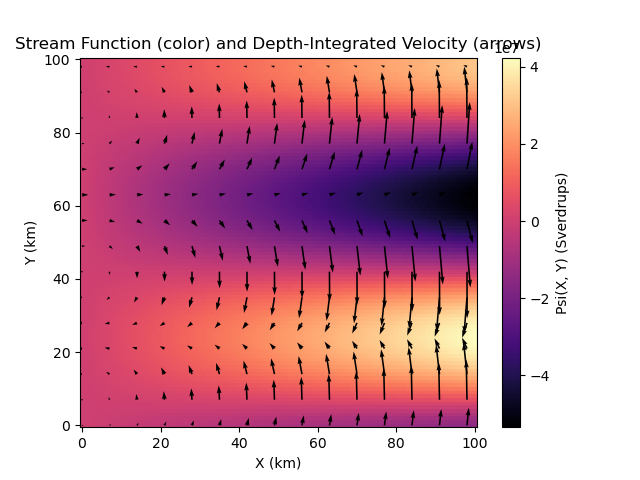
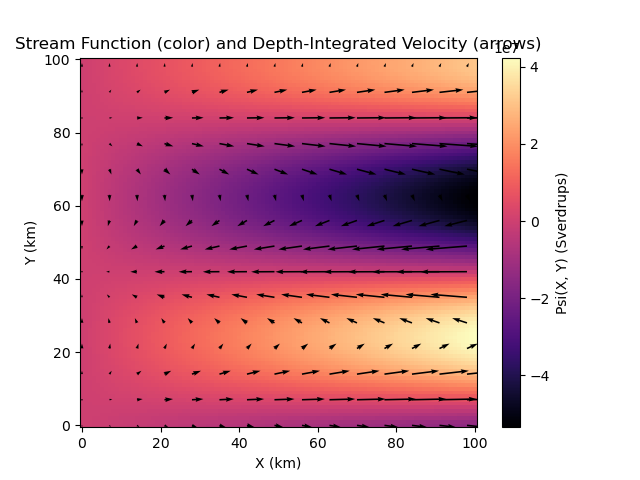
small mods for sverdrup

diff --git a/project5.py b/project5.py
@@ -19,22 +19,17 @@ def tau_x_function(y_range):
 windStress, width = tau_x_function(y_range)
 
 def Mek():
-    windStress_vecs = np.column_stack((windStress, np.zeros_like(windStress), np.zeros_like(windStress)))
-    mass = np.cross(windStress_vecs, z_hat)/f
+    #windStress_vecs = np.column_stack((windStress, np.zeros_like(windStress), np.zeros_like(windStress)))
+    #mass = np.cross(windStress_vecs, z_hat)/f
 
-<<<<<<< Updated upstream
-    print(mass[:, 1])
+    #print(mass[:, 1])
+    mass = -1*windStress/f
     return mass
-massTransport = Mek() #[:, 1] means only consider y direction
-=======
-    #print(mass)
-    return mass
-massTransport = Mek() #[:, 1] means to take all rows(all width values), and to only use first column (massTransport_y)
->>>>>>> Stashed changes
-massTransport_y = massTransport[:, 1]
+massTransport_y = Mek() #[:, 1] means only consider y direction
+#massTransport_y = massTransport[:, 1]
 
 def Psi():
-    dTxdy = -1 * np.gradient(windStress, width*1000) # this is del cross Tau, which is in z direction
+    dTxdy = -1 * np.gradient(windStress, width) # this is del cross Tau, which is in z direction
     # units of N/m^3
     x_vals = np.arange(0, x_range + 1)
     Psi_vals = np.empty(shape = (len(x_vals), len(width)))
@@ -42,15 +37,15 @@ def Psi():
         for j in range(len(width)):
             dT_val = dTxdy[j] # find the value of dT/dy at the current y value
             # because this dT_val is constant across x, we can take it out of the integral
-            Psi_vals[i, j] = 1 / (rho_b * beta) * dT_val * (x_vals[i] - x_vals[0])*1000 # and just multiply by the x distance
+            Psi_vals[i, j] = 1 / (rho_b * beta) * dT_val * (x_vals[i] - x_vals[0]) # and just multiply by the x distance
     
     return x_vals, Psi_vals
 
 length, Psi_vals = Psi()
-Psi_vals = Psi_vals.T
-X, Y = np.meshgrid(length, width)
+Psi_vals = Psi_vals
+X, Y = np.meshgrid(length, width, indexing='ij')
 V, U = np.gradient(Psi_vals, length, width) # vector components
-U = -1*U
+#U = -1*U
 
 # plot stream function with some [U, V] vectors overlayed
 plt.figure()
